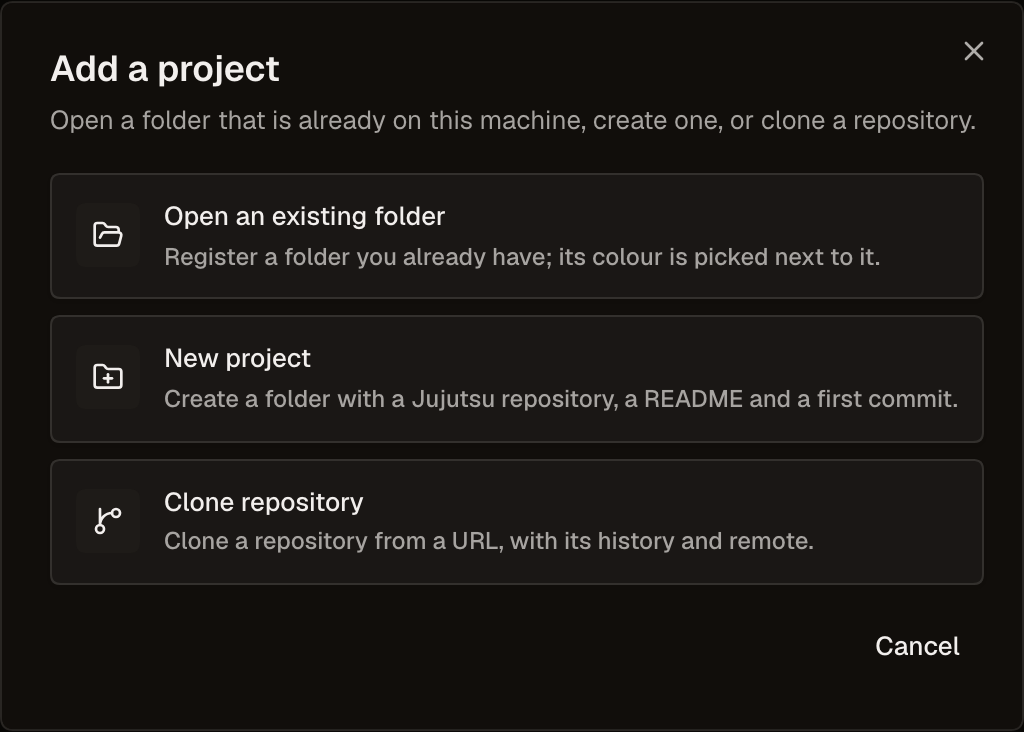
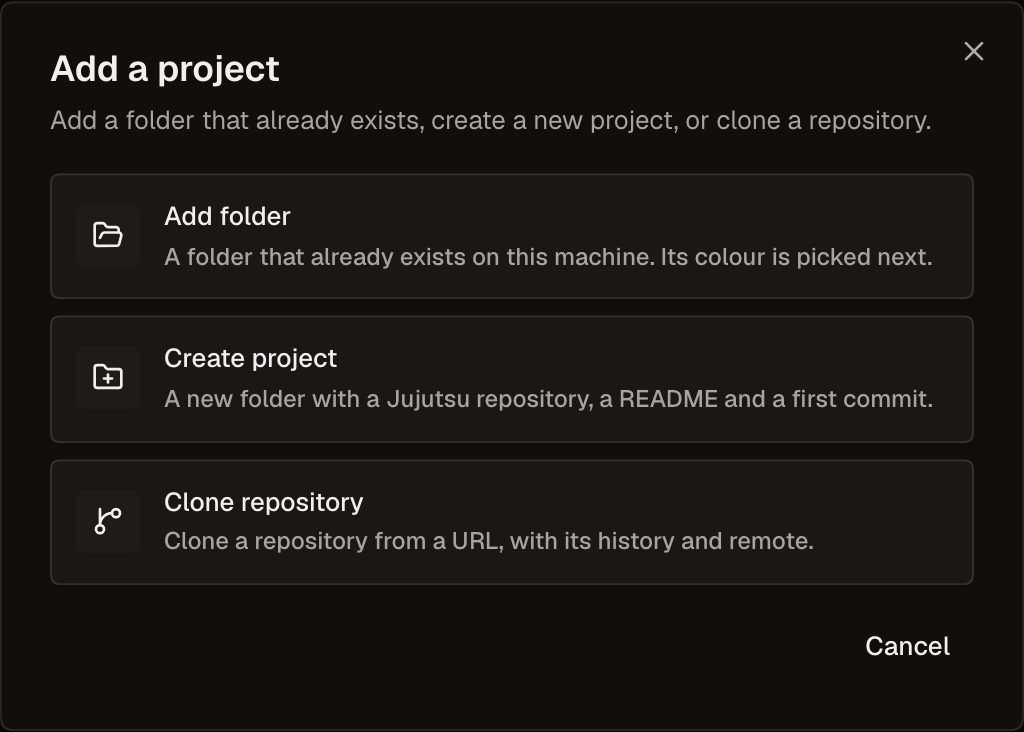
feat(workspace-folder-picker): separate Add folder from Create project and remember the parent

diff --git a/plugins/@dshfiles/workspace-folder-picker/src/project-create-dialog.tsx b/plugins/@dshfiles/workspace-folder-picker/src/project-create-dialog.tsx
@@ -6,6 +6,7 @@ import { errorMessage, useMutation } from '@dshfiles/plugin-ui/query'
 import * as Schema from 'effect/Schema'
 import { useState } from 'react'
 import { projectFolderNameSchema, type ProjectLifecycleClient } from './project-lifecycle-api.js'
+import { initialProjectParent } from './project-defaults.js'
 import { defaultProjectTone } from './project-tone.js'
 import { ProjectTonePicker } from './project-tone-picker.js'
 import { WorkspaceFolderPickerSchema, type FormFieldErrors } from './schema.js'
@@ -26,11 +27,16 @@ export const ProjectCreateDialog = (props: {
   readonly api: ProjectLifecycleClient
   readonly home: string | undefined
   readonly gitHubAvailable: boolean
+  /** Remembered parent folder from the picker settings; absent means the Host home. */
+  readonly defaultParent?: string | undefined
+  /** Remember the parent field as the default for the next project. */
+  readonly onRememberParent?: ((parent: string) => void) | undefined
   readonly onCreated: (path: string, tone: number) => void
   readonly onClose: () => void
 }): JSX.Element => {
-  const [form, setForm] = useState<CreateForm>({ parentPath: props.home ?? '~/', name: '', createGitHubRepository: false })
+  const [form, setForm] = useState<CreateForm>({ parentPath: initialProjectParent({ defaultParent: props.defaultParent, home: props.home }), name: '', createGitHubRepository: false })
   const [chosenTone, setChosenTone] = useState<number | null>(null)
+  const [remembered, setRemembered] = useState(false)
   const [errors, setErrors] = useState<FormFieldErrors>({})
   const tone = chosenTone ?? defaultProjectTone(form.name)
   const create = useMutation({
@@ -42,6 +48,7 @@ export const ProjectCreateDialog = (props: {
   const change = (patch: Partial<CreateForm>): void => {
     setForm(current => ({ ...current, ...patch }))
     setErrors({})
+    setRemembered(false)
     create.reset()
   }
   const submit = (): void => {
@@ -63,7 +70,7 @@ export const ProjectCreateDialog = (props: {
           }}
         >
           <DialogHeader>
-            <DialogTitle>New project</DialogTitle>
+            <DialogTitle>Create project</DialogTitle>
             <DialogDescription className="dshx:sr-only">
               Create a folder with a jj repository, a README and a first commit, and add it as a project.
             </DialogDescription>
@@ -85,6 +92,23 @@ export const ProjectCreateDialog = (props: {
               value={form.name}
             />
           </div>
+          {props.onRememberParent === undefined ? null : (
+            <div className="dshx:flex dshx:items-center dshx:gap-2">
+              <Button
+                className="dshx:text-xs"
+                disabled={remembered || form.parentPath.trim().length === 0}
+                onClick={() => {
+                  props.onRememberParent?.(form.parentPath)
+                  setRemembered(true)
+                }}
+                size="sm"
+                type="button"
+                variant="ghost"
+              >
+                {remembered ? 'Default parent folder saved' : 'Use this parent folder by default'}
+              </Button>
+            </div>
+          )}
           {props.gitHubAvailable && (
             <label className="dshx:flex dshx:items-center dshx:gap-2 dshx:text-sm">
               <Checkbox
@@ -104,8 +128,7 @@ export const ProjectCreateDialog = (props: {
               <AlertDescription>{created.warning}</AlertDescription>
             </Alert>
           )}
-          <ProjectTonePicker name={form.name === '' ? 'New project' : form.name} onChange={setChosenTone} tone={tone} />
-          <DialogFooter>
+          <ProjectTonePicker name={form.name === '' ? 'New project' : form.name} onChange={setChosenTone} tone={tone} />          <DialogFooter>
             <Button onClick={props.onClose} type="button" variant="outline">
               Close
             </Button>

diff --git a/plugins/@dshfiles/workspace-folder-picker/src/client.tsx b/plugins/@dshfiles/workspace-folder-picker/src/client.tsx
@@ -89,19 +89,24 @@ const DirectoryFlowContent = (props: DirectoryFlowOwnerProps & WorkspacePickerPo
     return (
       <ProjectCreateDialog
         api={lifecycleApi}
+        defaultParent={settings.value?.projectParent}
         gitHubAvailable={tools.data?.gh === true}
         home={tools.data?.home}
         onClose={() => setView('browse')}
         onCreated={picked}
+        onRememberParent={parent => {
+          void settings.set('projectParent', parent.trim()).catch(() => undefined)
+        }}
       />
     )
   }
-  // New project and Clone were hidden behind a "New ▾" button (productivity pass Q5, T5.5): both are direct buttons.
+  // Creating a project and cloning were hidden behind a "New ▾" button (productivity pass Q5, T5.5): both are direct
+  // buttons, and each says whether it creates a project or adds a folder that already exists.
   const addActions = tools.isSuccess ? (
     <div className="dshx:flex dshx:shrink-0 dshx:items-center dshx:gap-1">
       <Button className="dshx:shrink-0" disabled={props.busy || !tools.data.jj} type="button" variant="outline" onClick={() => setView('create')}>
         <FolderPlusIcon aria-hidden />
-        New project…
+        Create project…
       </Button>
       <Button className="dshx:shrink-0" disabled={props.busy || !tools.data.git} type="button" variant="outline" onClick={() => setView('clone')}>
         <GitBranchIcon aria-hidden />
@@ -182,8 +187,8 @@ export default defineClient({
     const plugin = metadata?.plugin
     if (plugin !== undefined)
       for (const row of [
-        { id: 'new-project', label: 'New project…', view: 'create', aliases: ['Create project', 'Initialize repository', 'New repository'] },
-        { id: 'add-folder', label: 'Add folder as project…', view: 'browse', aliases: ['Open folder', 'Add workspace', 'Register project'] },
+        { id: 'new-project', label: 'Create project…', view: 'create', aliases: ['New project', 'Add project', 'Initialize repository', 'New repository'] },
+        { id: 'add-folder', label: 'Add folder…', view: 'browse', aliases: ['Add existing folder', 'Add folder as project', 'Open folder', 'Add workspace', 'Register project'] },
         { id: 'clone-repository', label: 'Clone repository…', view: 'clone', aliases: ['git clone', 'Clone project'] },
       ] as const)
         plugin.add(PaletteActions, {

diff --git a/plugins/@dshfiles/workspace-folder-picker/src/project-add-chooser.tsx b/plugins/@dshfiles/workspace-folder-picker/src/project-add-chooser.tsx
@@ -36,19 +36,19 @@ export const ProjectAddChooser = (props: {
     <DialogContent className="dshx-root dshx:max-w-md">
       <DialogHeader>
         <DialogTitle>Add a project</DialogTitle>
-        <DialogDescription>Open a folder that is already on this machine, create one, or clone a repository.</DialogDescription>
+        <DialogDescription>Add a folder that already exists, create a new project, or clone a repository.</DialogDescription>
       </DialogHeader>
       <div className="dshx:flex dshx:flex-col dshx:gap-2">
         <ChoiceRow
-          hint="Register a folder you already have; its colour is picked next to it."
+          hint="A folder that already exists on this machine. Its colour is picked next."
           icon={<FolderOpenIcon aria-hidden size={16} />}
-          label="Open an existing folder"
+          label="Add folder"
           onClick={props.onBrowse}
         />
         <ChoiceRow
-          hint="Create a folder with a Jujutsu repository, a README and a first commit."
+          hint="A new folder with a Jujutsu repository, a README and a first commit."
           icon={<FolderPlusIcon aria-hidden size={16} />}
-          label="New project"
+          label="Create project"
           onClick={props.onCreate}
         />
         {props.gitHubAvailable && (

diff --git a/plugins/@dshfiles/thread-sidebar/src/locales.ts b/plugins/@dshfiles/thread-sidebar/src/locales.ts
@@ -35,7 +35,7 @@ const en = {
   threadSidebarProjectFilter: 'Project filter',
   threadSidebarAddProject: 'Add a project',
   threadSidebarAddFolder: 'Add folder…',
-  threadSidebarNewProject: 'New project…',
+  threadSidebarNewProject: 'Create project…',
   threadSidebarProjectSearch: 'Search projects',
   threadSidebarProjectSearchPlaceholder: 'Search projects…',
   threadSidebarProjectSearchEmpty: 'No projects found.',
@@ -624,7 +624,7 @@ const zh = {
   threadSidebarProjectFilter: '项目筛选',
   threadSidebarAddProject: '添加项目',
   threadSidebarAddFolder: '添加文件夹…',
-  threadSidebarNewProject: '新建项目…',
+  threadSidebarNewProject: '创建项目…',
   threadSidebarProjectSearch: '搜索项目',
   threadSidebarProjectSearchPlaceholder: '搜索项目…',
   threadSidebarProjectSearchEmpty: '未找到项目。',

diff --git a/plugins/@dshfiles/workspace-folder-picker/src/project-defaults.test.ts b/plugins/@dshfiles/workspace-folder-picker/src/project-defaults.test.ts
@@ -1,0 +1,18 @@
+import { describe, expect, it } from 'vitest'
+import { initialProjectParent } from './project-defaults.js'
+
+describe('initialProjectParent', () => {
+  it('prefers the remembered parent folder', () => {
+    expect(initialProjectParent({ defaultParent: '/Users/me/dev', home: '/Users/me' })).toBe('/Users/me/dev')
+  })
+
+  it('falls back to the Host home when nothing is remembered', () => {
+    expect(initialProjectParent({ defaultParent: '', home: '/Users/me' })).toBe('/Users/me')
+    expect(initialProjectParent({ defaultParent: '   ', home: '/Users/me' })).toBe('/Users/me')
+    expect(initialProjectParent({ home: '/Users/me' })).toBe('/Users/me')
+  })
+
+  it('has a placeholder when the Host reports no home', () => {
+    expect(initialProjectParent({})).toBe('~/')
+  })
+})

diff --git a/plugins/@dshfiles/workspace-folder-picker/src/settings.ts b/plugins/@dshfiles/workspace-folder-picker/src/settings.ts
@@ -15,6 +15,9 @@ export const workspaceFolderPickerSettings = defineSettings({
     projectTones: Schema.array(projectToneEntry)
       .default([])
       .description('Colour per project, chosen when the folder is imported; a project without an entry keeps the automatic colour of its folder name.'),
+    projectParent: Schema.string()
+      .default('')
+      .description('Folder the Create project dialog starts in. Empty starts in your home folder; the dialog can remember the last one for you.'),
   }),
   applies: 'live',
 })

diff --git a/plugins/@dshfiles/workspace-folder-picker/src/project-defaults.ts b/plugins/@dshfiles/workspace-folder-picker/src/project-defaults.ts
@@ -1,0 +1,9 @@
+/**
+ * Where the Create project dialog starts. A remembered parent wins over the Host home, and a blank one falls back to home
+ * so the field is never empty on first use.
+ */
+export const initialProjectParent = (input: { readonly defaultParent?: string | undefined; readonly home?: string | undefined }): string => {
+  const remembered = input.defaultParent?.trim() ?? ''
+  if (remembered !== '') return remembered
+  return input.home ?? '~/'
+}
